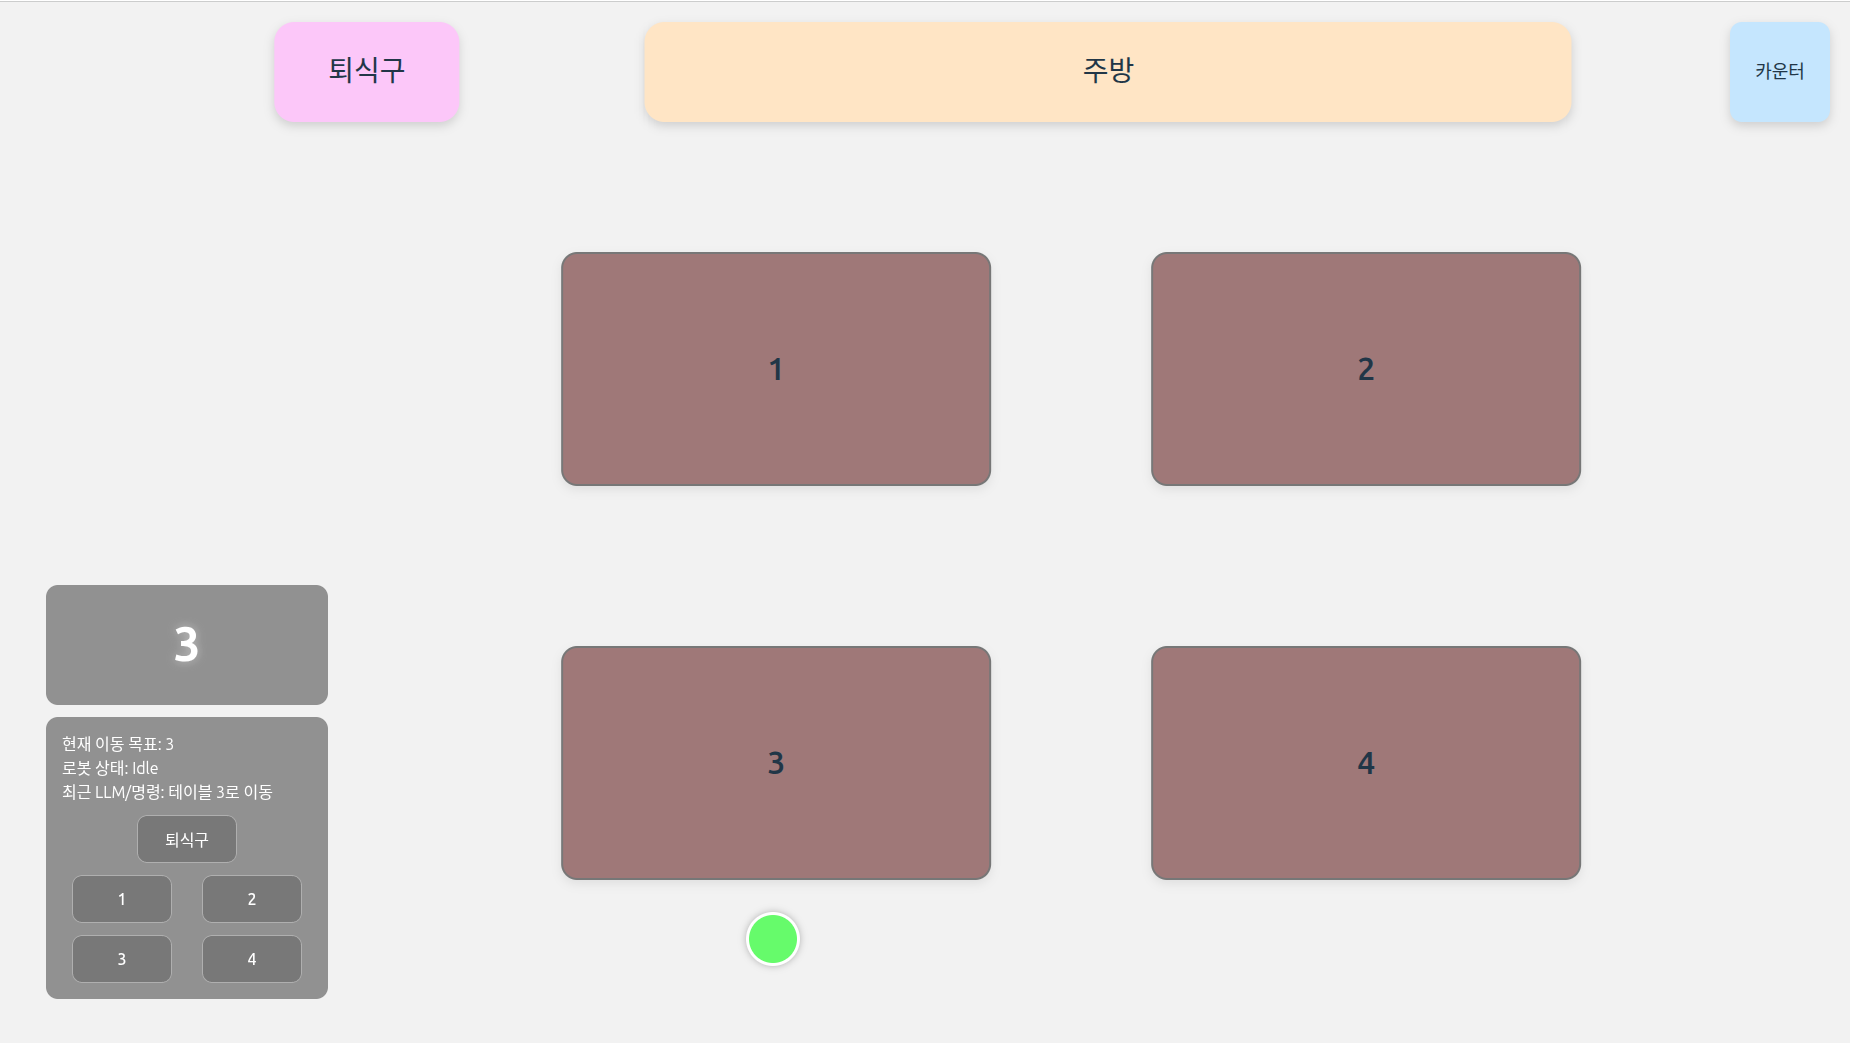
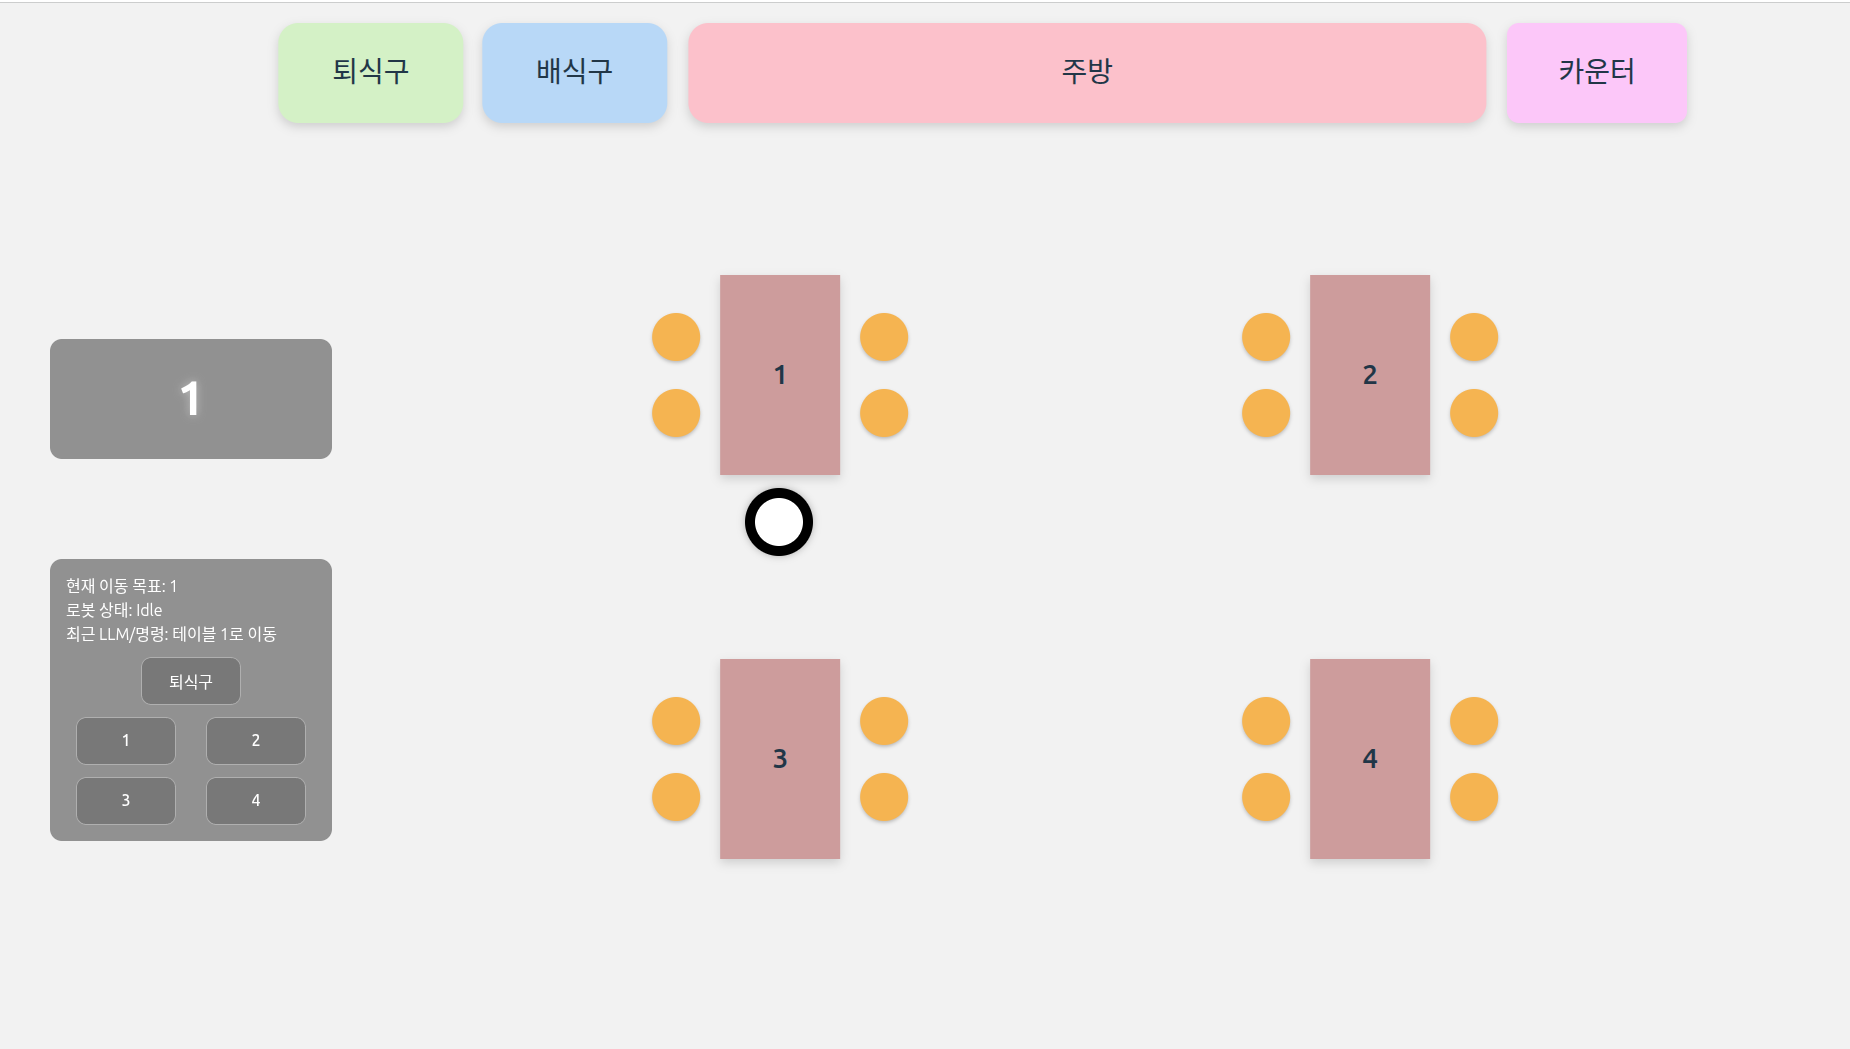
Update UI design and velocity of the robot dot

diff --git a/bussing_gui/robot-topview/src/App.jsx b/bussing_gui/robot-topview/src/App.jsx
@@ -3,18 +3,17 @@ import "./App.css";
 
 const TABLE_POSITIONS = {
   0: { x: 343, y: 150 },
-  1: { x: 750, y: 520 },
-  2: { x: 1350, y: 520 },
-  3: { x: 750, y: 910 },
-  4: { x: 1350, y: 910 },
+  1: { x: 745, y: 485 },
+  2: { x: 1335, y: 485 },
+  3: { x: 745, y: 870 },
+  4: { x: 1335, y: 870 },
 };
 
 const WAYPOINTS = {
-  T0: { x: 380,  y: 480 },
-  T1: { x: 450,  y: 520 },
-  T2: { x: 1050, y: 520 },
-  T3: { x: 450,  y: 910 },
-  T4: { x: 1050, y: 910 },
+  T1: { x: 548,  y: 485 },
+  T2: { x: 1040, y: 485 },
+  T3: { x: 548,  y: 870 },
+  T4: { x: 1040, y: 870 },
 };
 
 const PATH_MAP = {
@@ -22,7 +21,7 @@ const PATH_MAP = {
     0:[],
     1:["T1", 1],
     2:["T1", 1, "T2", 2],
-    3:["T0", "T3", 3],
+    3:["T3", 3],
     4:["T1", 1, "T2", "T4", 4]
   },
 
@@ -43,7 +42,7 @@ const PATH_MAP = {
   },
 
   3:{
-    0:["T3", "T0", 0],
+    0:["T3", 0],
     1:["T3", "T1", 1],
     2:["T4", "T2", 2],
     3:[],
@@ -95,20 +94,24 @@ function App() {
   const go = (dest) => {
     if (status === "Moving") return;
 
-    const startId = target;     // 현재 위치 번호 (0~4)
+    const startId = target;
     const pathKeys = PATH_MAP[startId][dest];
     if (!pathKeys) return;
 
     setTarget(dest);
     setStatus("Moving");
-    dest === 0 ? setLastCmd(`${displayTarget(dest)}로 이동`) :setLastCmd(`테이블 ${displayTarget(dest)}로 이동`);
+    dest === 0
+      ? setLastCmd(`${displayTarget(dest)}로 이동`)
+      : setLastCmd(`테이블 ${displayTarget(dest)}로 이동`);
 
-    // PATH_MAP에서 waypoint/목적지 좌표를 가져옴
     const points = pathKeys.map(k =>
       typeof k === "string" ? WAYPOINTS[k] : TABLE_POSITIONS[k]
     );
 
     let current = robotPos;
+
+    // ★ 속도(px / sec)
+    const SPEED = 100;
 
     const moveNext = (i) => {
       if (i >= points.length) {
@@ -118,7 +121,15 @@ function App() {
 
       const nextPoint = points[i];
 
-      animateTo(current, nextPoint, 700, setRobotPos, () => {
+      // ★ 현재 위치와 다음 위치 사이 거리 계산
+      const dx = nextPoint.x - current.x;
+      const dy = nextPoint.y - current.y;
+      const dist = Math.hypot(dx, dy);      // = sqrt(dx*dx + dy*dy)
+
+      // ★ 이 구간에서 걸릴 시간(ms)
+      const duration = (dist / SPEED) * 1000;
+
+      animateTo(current, nextPoint, duration, setRobotPos, () => {
         current = nextPoint;
         moveNext(i + 1);
       });
@@ -128,11 +139,13 @@ function App() {
   };
 
 
+
   return (
     <div className="map-container">
       {/* 상단 TopView 영역 */}
       <div className="topview">
         <div className="return">퇴식구</div>
+        <div className="serving">배식구</div>
         <div className="kitchen">주방 </div>
         <div className="counter">카운터</div>
 
@@ -146,10 +159,24 @@ function App() {
 
         {/* 테이블 2×2 */}
         <div className="tables">
-          <div className="table t1">1</div>
-          <div className="table t2">2</div>
-          <div className="table t3">3</div>
-          <div className="table t4">4</div>
+          {[1, 2, 3, 4].map((id) => (
+            <div className={`table-block table-${id}`} key={id}>
+              {/* 왼쪽 의자 2개 */}
+              <div className="seats-column seats-left">
+                <div className="seat" />
+                <div className="seat" />
+              </div>
+
+              {/* 테이블 본체 */}
+              <div className="table-rect">{id}</div>
+
+              {/* 오른쪽 의자 2개 */}
+              <div className="seats-column seats-right">
+                <div className="seat" />
+                <div className="seat" />
+              </div>
+            </div>
+          ))}
         </div>
 
         {/* 왼쪽 아래 작은 패널 */}

diff --git a/bussing_gui/robot-topview/src/App.css b/bussing_gui/robot-topview/src/App.css
@@ -23,7 +23,31 @@
   width: 10%;       
   height: 100px;  
 
-  background: #ffc4fa;
+  background: #D1F3C5;
+  border-radius: 20px;
+
+  display: flex;
+  justify-content: center;
+  align-items: center;
+
+  font-size: 28px;
+  font-weight: 700;
+  box-shadow: 0 4px 10px rgba(0,0,0,0.15);
+
+  z-index: 5;
+
+}
+
+.serving{
+  position: absolute;
+  top: 20px;
+  left: 31%;
+  transform: translateX(-50%);
+
+  width: 10%;       
+  height: 100px;  
+
+  background: #B8D7F8;
   border-radius: 20px;
 
   display: flex;
@@ -43,13 +67,13 @@
 .kitchen {
   position: absolute;
   top: 20px;
-  left: 60%;
+  left: 58.65%;
   transform: translateX(-50%);
 
-  width: 50%;       
+  width: 43%;       
   height: 100px;  
 
-  background: #ffe6c4;
+  background: #FFC0CB;
   border-radius: 20px;
 
   display: flex;
@@ -67,19 +91,19 @@
 .counter {
   position: absolute;
   top: 20px;
-  right: 20px;
+  right: 9%;
 
-  width: 100px;
+  width: 180px;
   height: 100px;
 
-  background: #c4e5ff;
+  background: #ffc4fa;
   border-radius: 12px;
 
   display: flex;
   justify-content: center;
   align-items: center;
 
-  font-size: 18px;
+  font-size: 28px;
   font-weight: 600;
 
   box-shadow: 0 4px 10px rgba(0,0,0,0.15);
@@ -88,30 +112,65 @@
 }
 
 /* 테이블 영역 (가운데~오른쪽 크게) */
+/* 테이블 영역 */
 .tables {
   position: absolute;
   top: 250px;
   left: 58%;
   transform: translateX(-50%);
+
   width: 55%;
   height: 60%;
+
   display: grid;
-  grid-template-columns: 1fr 1fr;
-  grid-gap: 160px;
+  grid-template-columns: repeat(2, minmax(220px, 1fr));
+  row-gap: 140px;
+  column-gap: 160px;
+  justify-items: center;
+  align-items: center;
 }
 
-/* 개별 테이블 */
-.table {
-  background: #a17878;
-  border-radius: 16px;
-  border: 2px solid #777;
+/* 테이블 + 의자 한 세트 */
+.table-block {
   display: flex;
   align-items: center;
   justify-content: center;
-  font-size: 32px;
-  font-weight: 600;
-  box-shadow: 0 4px 10px rgba(0, 0, 0, 0.08);
+  gap: 20px;            /* 테이블과 의자 사이 간격 */
 }
+
+/* 테이블 직사각형 */
+.table-rect {
+  width: 120px;
+  height: 200px;        /* 세로로 길게 */
+  background: #cf9c9c;
+  /* border-radius: 16px; */
+  /* border: 2px solid #777; */
+
+  display: flex;
+  align-items: center;
+  justify-content: center;
+
+  font-size: 28px;
+  font-weight: 600;
+  box-shadow: 0 4px 10px rgba(0, 0, 0, 0.15);
+}
+
+/* 좌우 의자 묶음 */
+.seats-column {
+  display: flex;
+  flex-direction: column;
+  gap: 28px;            /* 의자 간 간격 */
+}
+
+/* 동그란 의자 */
+.seat {
+  width: 48px;
+  height: 48px;
+  border-radius: 50%;
+  background: #f6b64a;
+  box-shadow: 0 2px 4px rgba(0,0,0,0.25);
+}
+
 
 /* 로봇 점 (원형 + 부드러운 이동) */
 .robot-dot {
@@ -121,8 +180,8 @@
   width: 48px;
   height: 48px;
   border-radius: 50%;
-  background: #4bff63;
-  border: 3px solid #ffffff;
+  background: #ffffff;
+  border: 10px solid #000000;
   box-shadow: 0 0 8px rgba(0, 0, 0, 0.3);
   /* transition: transform 1.5s ease; */
 
@@ -132,12 +191,12 @@
 /* 전체 오버레이 컨테이너 (패널들 묶는 영역) */
 .control-overlay {
   position: fixed;
-  bottom: 50px;
+  bottom: 20%;
   left: 50px;
 
   display: flex;
   flex-direction: column;
-  gap: 12px;
+  gap: 100px;
 }
 
 /* 큰 숫자 보여주는 상단 패널 */
